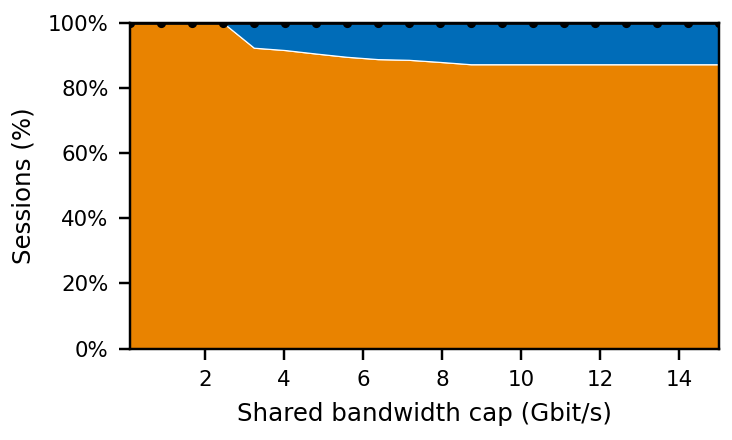
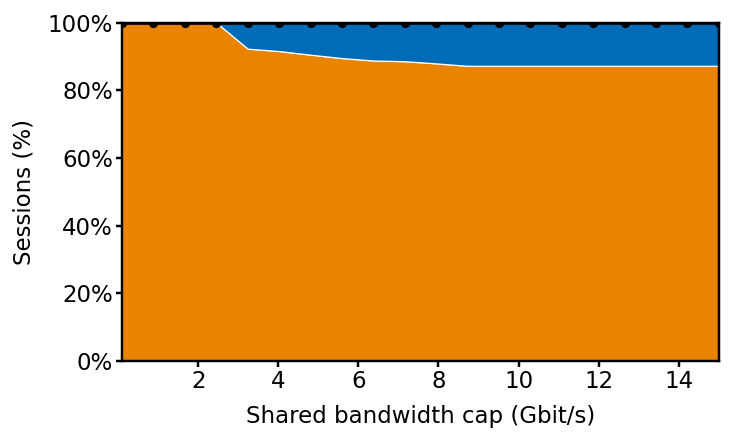
Use half-column plot_style fonts and boxed legend for OAT figures

diff --git a/agent-migrate/queue-haul/workload_adaptation_campaign.py b/agent-migrate/queue-haul/workload_adaptation_campaign.py
@@ -1066,6 +1066,8 @@ def plot_action_boxplot(rows, path):
 def plot_oat(rows, path):
     from matplotlib.ticker import PercentFormatter
 
+    fs = plot_style.HALF_COLUMN_FONT_SIZE
+    legend_fs = plot_style.HALF_COLUMN_LEGEND_FONT_SIZE
     col_w, col_h = 3.33, 2.0
     for sweep_i, sweep in enumerate(("bandwidth", "prefill")):
         fig, ax = plt.subplots(figsize=(col_w, col_h))
@@ -1096,14 +1098,15 @@ def plot_oat(rows, path):
         ax.margins(0)
         ax.set_ylabel("Sessions (%)")
         ax.yaxis.set_major_formatter(PercentFormatter(1))
-        ax.tick_params(labelsize=7)
-        ax.xaxis.label.set_size(8)
-        ax.yaxis.label.set_size(8)
+        plot_style.half_column(ax)
+        ax.xaxis.label.set_size(fs)
+        ax.yaxis.label.set_size(fs)
         if sweep_i == 1:
             handles, labels = ax.get_legend_handles_labels()
-            ax.legend(handles, labels, frameon=False, fontsize=5.5,
+            ax.legend(handles, labels, fontsize=legend_fs,
                       loc="center right", handlelength=1.2, handletextpad=.4,
-                      borderpad=.3, labelspacing=.3)
+                      borderpad=.4, labelspacing=.3,
+                      fancybox=False, edgecolor="black")
         fig.tight_layout(pad=.3)
         suffix = "bandwidth" if sweep == "bandwidth" else "prefill"
         fig.savefig(path.parent / f"action_choice_oat_{suffix}.png",
